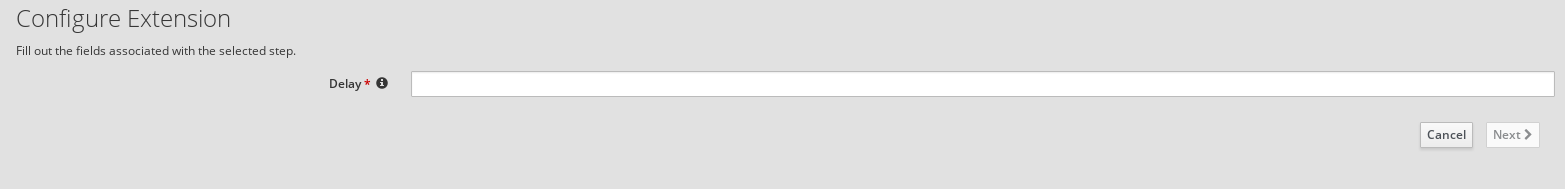
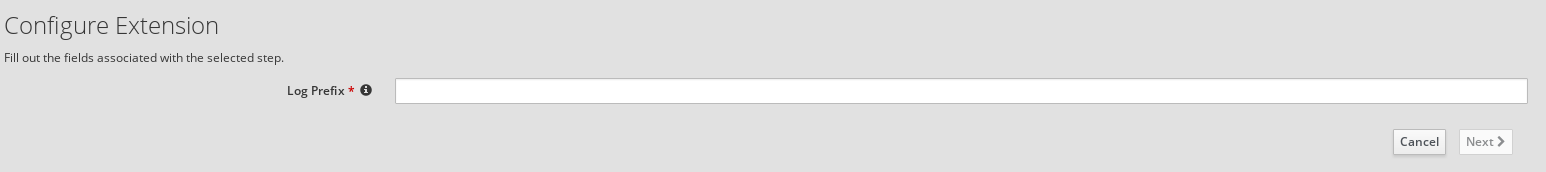
Added Screenshot and fixed README

diff --git a/syndesis-extension-log-xml/README.MD b/syndesis-extension-log-xml/README.MD
@@ -1,9 +1,9 @@
-# Delay Extension
+# Log XML Extension
 
-This is a simple Syndesis Extension to add a delay to your route.
+This is a simple Syndesis Extension to add a body log message with a prefix.
 
 The extension exposes one configurable field:
-- **delay** the delay to apply
+- **prefix** the log message prefix
 
 ![Screenshot](screenshot.png)
 
